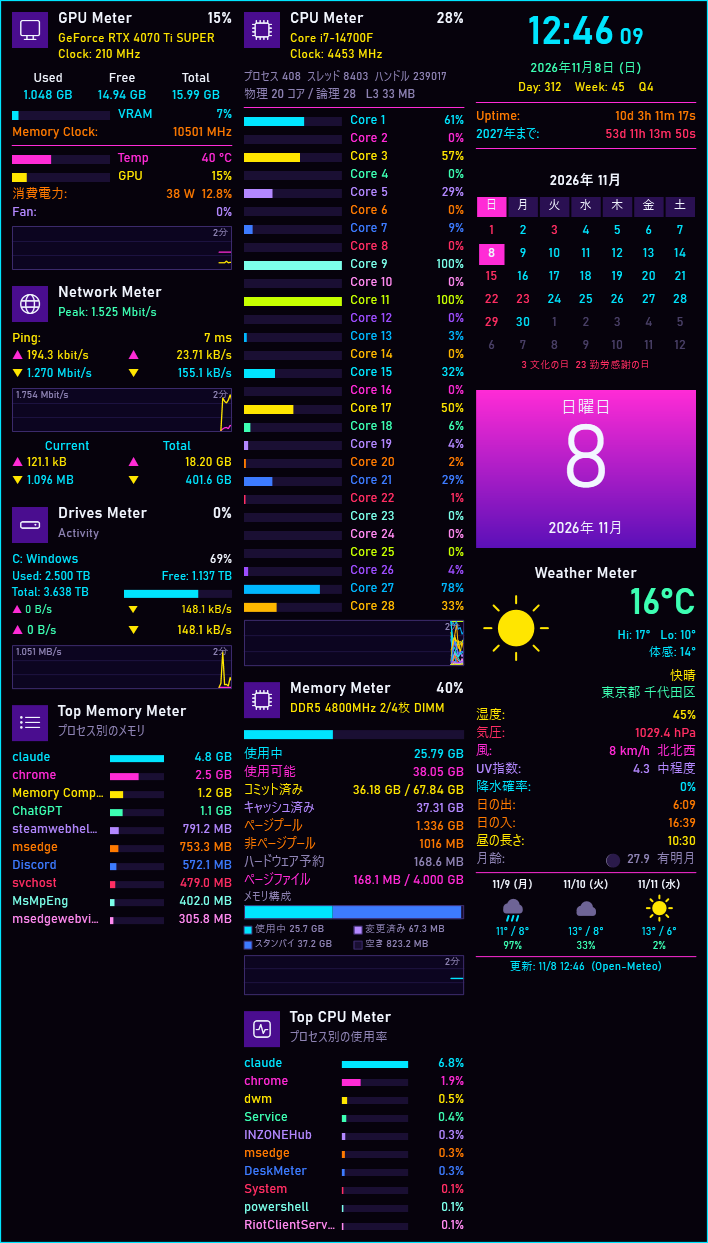
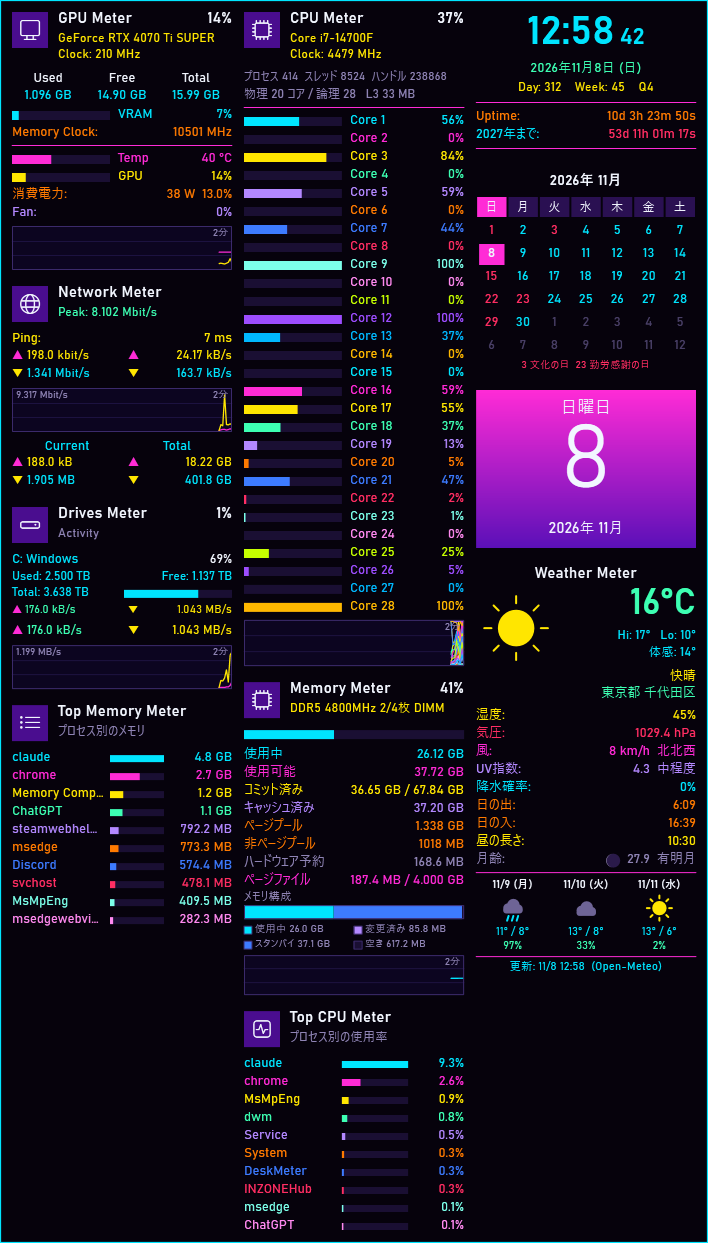
角なしスキンのリングゲージを円に戻し、始点と終点の端だけ直角にする
- 四角いゲージ (SquareArc) を外し、Sharp では Flat のペン端で円のリングを描く
- ヘルプと CHANGELOG を更新、Sharp 3 種のプレビューを撮り直し

diff --git a/help/custom-skin.html b/help/custom-skin.html
@@ -168,7 +168,7 @@
   <tr><td><code>GraphArea</code></td><td>true / false</td><td>グラフの折れ線の下を薄く塗る</td></tr>
   <tr><td><code>Decor</code></td><td>"sakura" / "hearts" / "stars" / "bubbles" / "dots" / "grid" / "rain" / "lines"</td><td>背景の飾り: 桜の花びら / ハート / きらきら / 泡 / 水玉 / 夕焼けの遠近グリッド / 緑の文字の雨 / ノートの罫線</td></tr>
   <tr><td><code>DecorColor</code></td><td>色</td><td>飾りの色 (透明度は自動で付く)</td></tr>
-  <tr><td><code>Sharp</code></td><td>true / false</td><td>true で角丸を一切使わない (バー・日付タイル・配置編集の枠も直角、リングゲージは四角いゲージになる)。<code>CornerRadius</code> / <code>TileRadius</code> / <code>CardRadius</code> を 0 にするのと合わせて使う。組み込みの Classic Sharp / Cyberpunk Sharp / Retro Sharp がこの設定</td></tr>
+  <tr><td><code>Sharp</code></td><td>true / false</td><td>true で角丸を一切使わない (バー・日付タイル・配置編集の枠も直角、リングゲージは円のままで端だけ直角になる)。<code>CornerRadius</code> / <code>TileRadius</code> / <code>CardRadius</code> を 0 にするのと合わせて使う。組み込みの Classic Sharp / Cyberpunk Sharp / Retro Sharp がこの設定</td></tr>
   <tr><td><code>Mascot</code></td><td>"cat" / "bunny" / "bear"</td><td>いちばん空いている列の下に描くキャラクター。空きが 64px 未満なら描かない</td></tr>
   <tr><td><code>MascotBody</code> / <code>MascotAccent</code> / <code>MascotEye</code></td><td>色</td><td>キャラクターの体 / 耳の内側・ほっぺ / 目の色</td></tr>
 </table>

diff --git a/src/MeterExtras.cs b/src/MeterExtras.cs
@@ -334,39 +334,16 @@ namespace DeskMeter
             return pen;
         }
 
-        // 左下から時計回りに 270° のリング。角なしのスキンでは下が開いた四角 (左下 → 上 → 右下)
+        // 左下から時計回りに 270° のリング。角なしのスキンでも円のままで、始点と終点の端だけ直角 (RoundPen が Flat にする)
         void Ring(DrawingContext dc, double cx, double cy, double r, double thick, double frac, Brush color)
         {
             if (ringTrack == null) ringTrack = RoundPen(Track, thick);
-            dc.DrawGeometry(null, ringTrack, sk.Sharp ? SquareArc(cx, cy, r, 1) : Arc(cx, cy, r, 135, 270));
+            dc.DrawGeometry(null, ringTrack, Arc(cx, cy, r, 135, 270));
             frac = Math.Max(0, Math.Min(1, frac));
             if (frac < 0.005) return;
             Pen pen;
             if (!ringPens.TryGetValue(color, out pen)) { pen = RoundPen(color, thick); ringPens[color] = pen; }
-            dc.DrawGeometry(null, pen, sk.Sharp ? SquareArc(cx, cy, r, frac) : Arc(cx, cy, r, 135, 270 * frac));
-        }
-
-        // 四角いゲージ: 左下の角から左辺を上がり、上辺を右へ、右辺を下がって右下の角まで (周の 3/4)。frac はその長さに対する割合
-        static StreamGeometry SquareArc(double cx, double cy, double r, double frac)
-        {
-            double side = r * 2 * 0.92;   // 円のリングと同じくらいの見た目の大きさに
-            double h = side / 2;
-            Point[] pts = { new Point(cx - h, cy + h), new Point(cx - h, cy - h), new Point(cx + h, cy - h), new Point(cx + h, cy + h) };
-            double remain = side * 3 * frac;
-            var g = new StreamGeometry();
-            using (StreamGeometryContext ctx = g.Open())
-            {
-                ctx.BeginFigure(pts[0], false, false);
-                for (int i = 1; i < pts.Length && remain > 0; i++)
-                {
-                    double seg = Math.Min(side, remain);
-                    double t = seg / side;
-                    ctx.LineTo(new Point(pts[i - 1].X + (pts[i].X - pts[i - 1].X) * t, pts[i - 1].Y + (pts[i].Y - pts[i - 1].Y) * t), true, false);
-                    remain -= seg;
-                }
-            }
-            g.Freeze();
-            return g;
+            dc.DrawGeometry(null, pen, Arc(cx, cy, r, 135, 270 * frac));
         }
 
         static StreamGeometry Arc(double cx, double cy, double r, double startDeg, double sweepDeg)

diff --git a/CHANGELOG.md b/CHANGELOG.md
@@ -2,6 +2,10 @@
 
 各版の zip と SHA-256 は [Releases](../../releases) にあります。
 
+## 未リリース
+
+- 角なしのスキンのリングゲージを円に戻しました (v0.3.11 で四角にしていました)。角なしなのは始点と終点の端だけです。
+
 ## v0.3.11 (2026-11-08)
 
 - カレンダーの曜日の文字が帯の中で少し上に寄っていたのを上下中央にしました。
